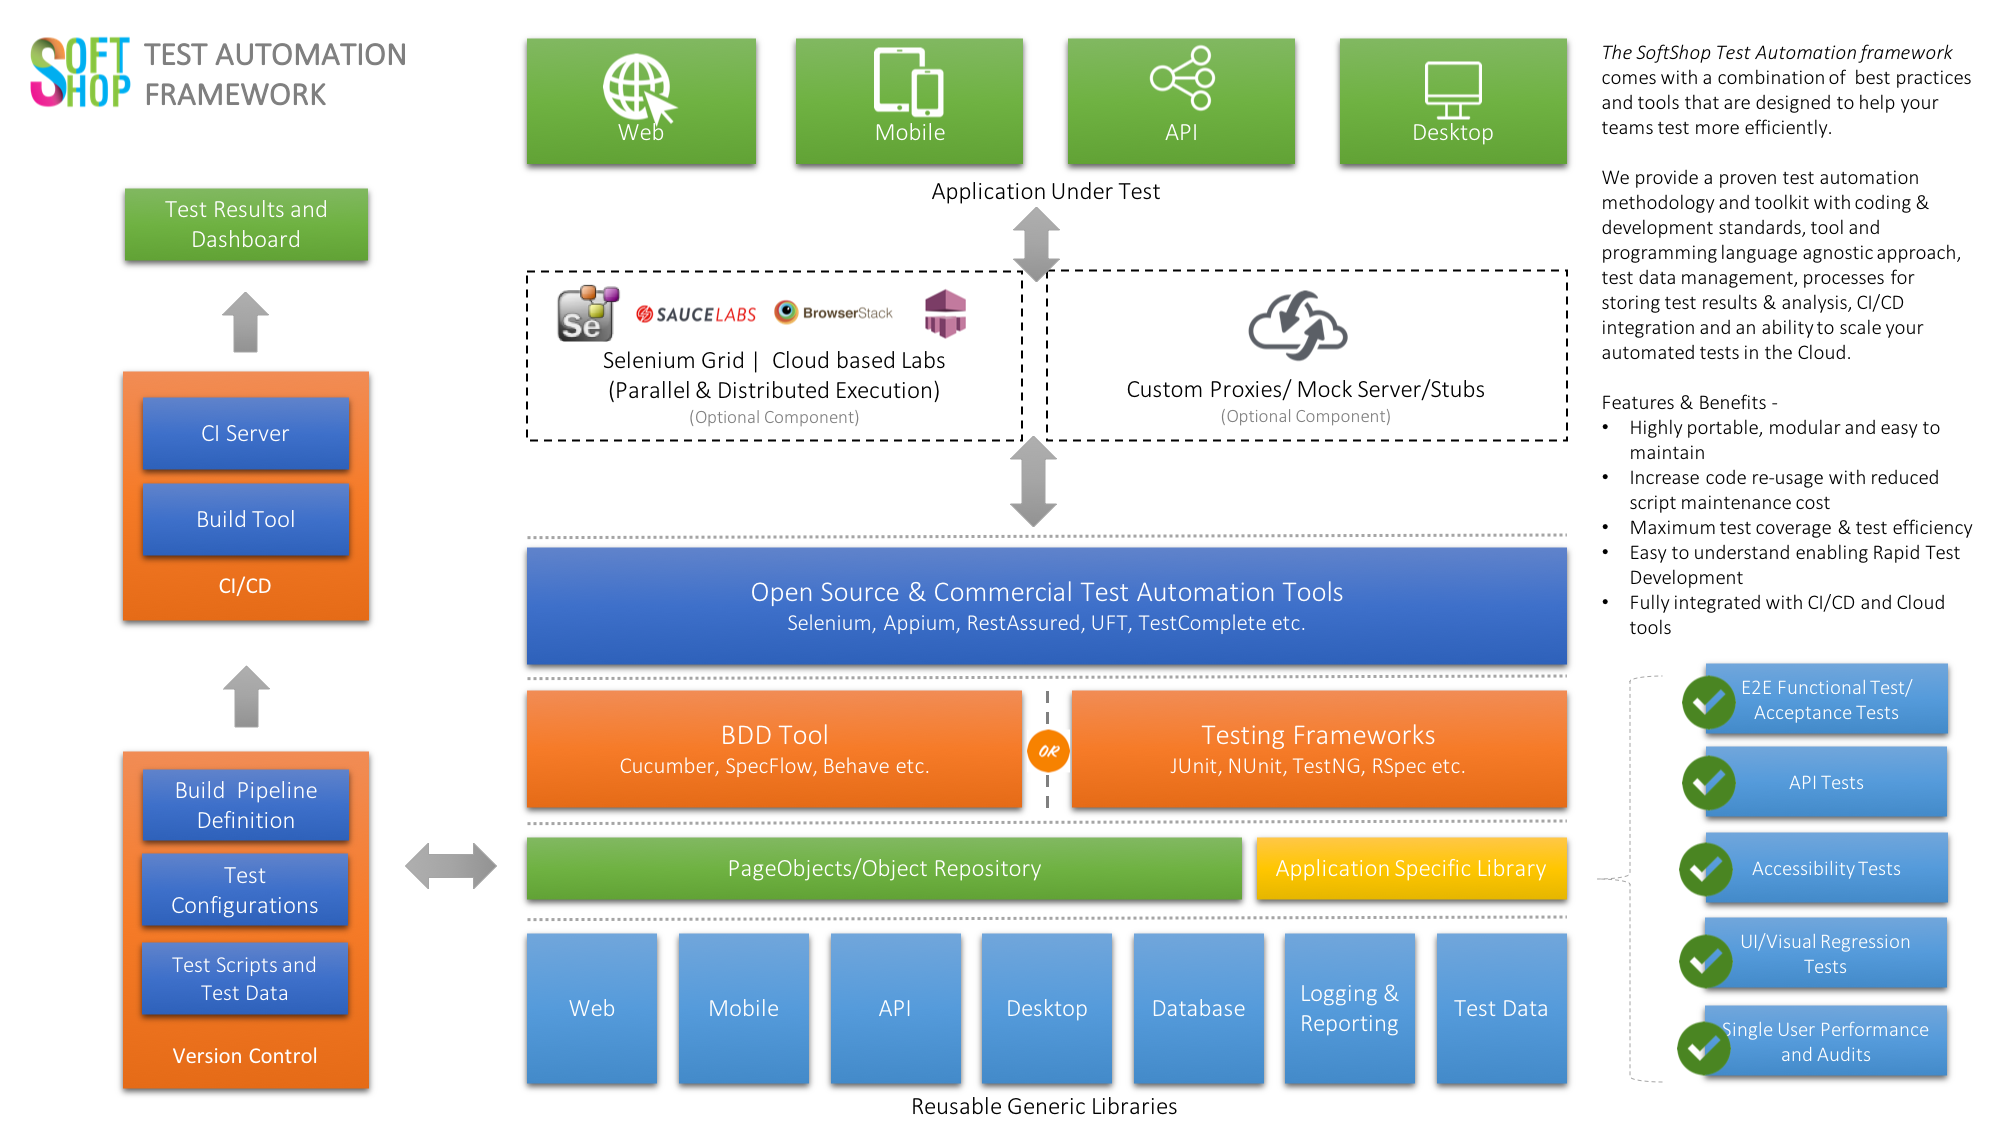
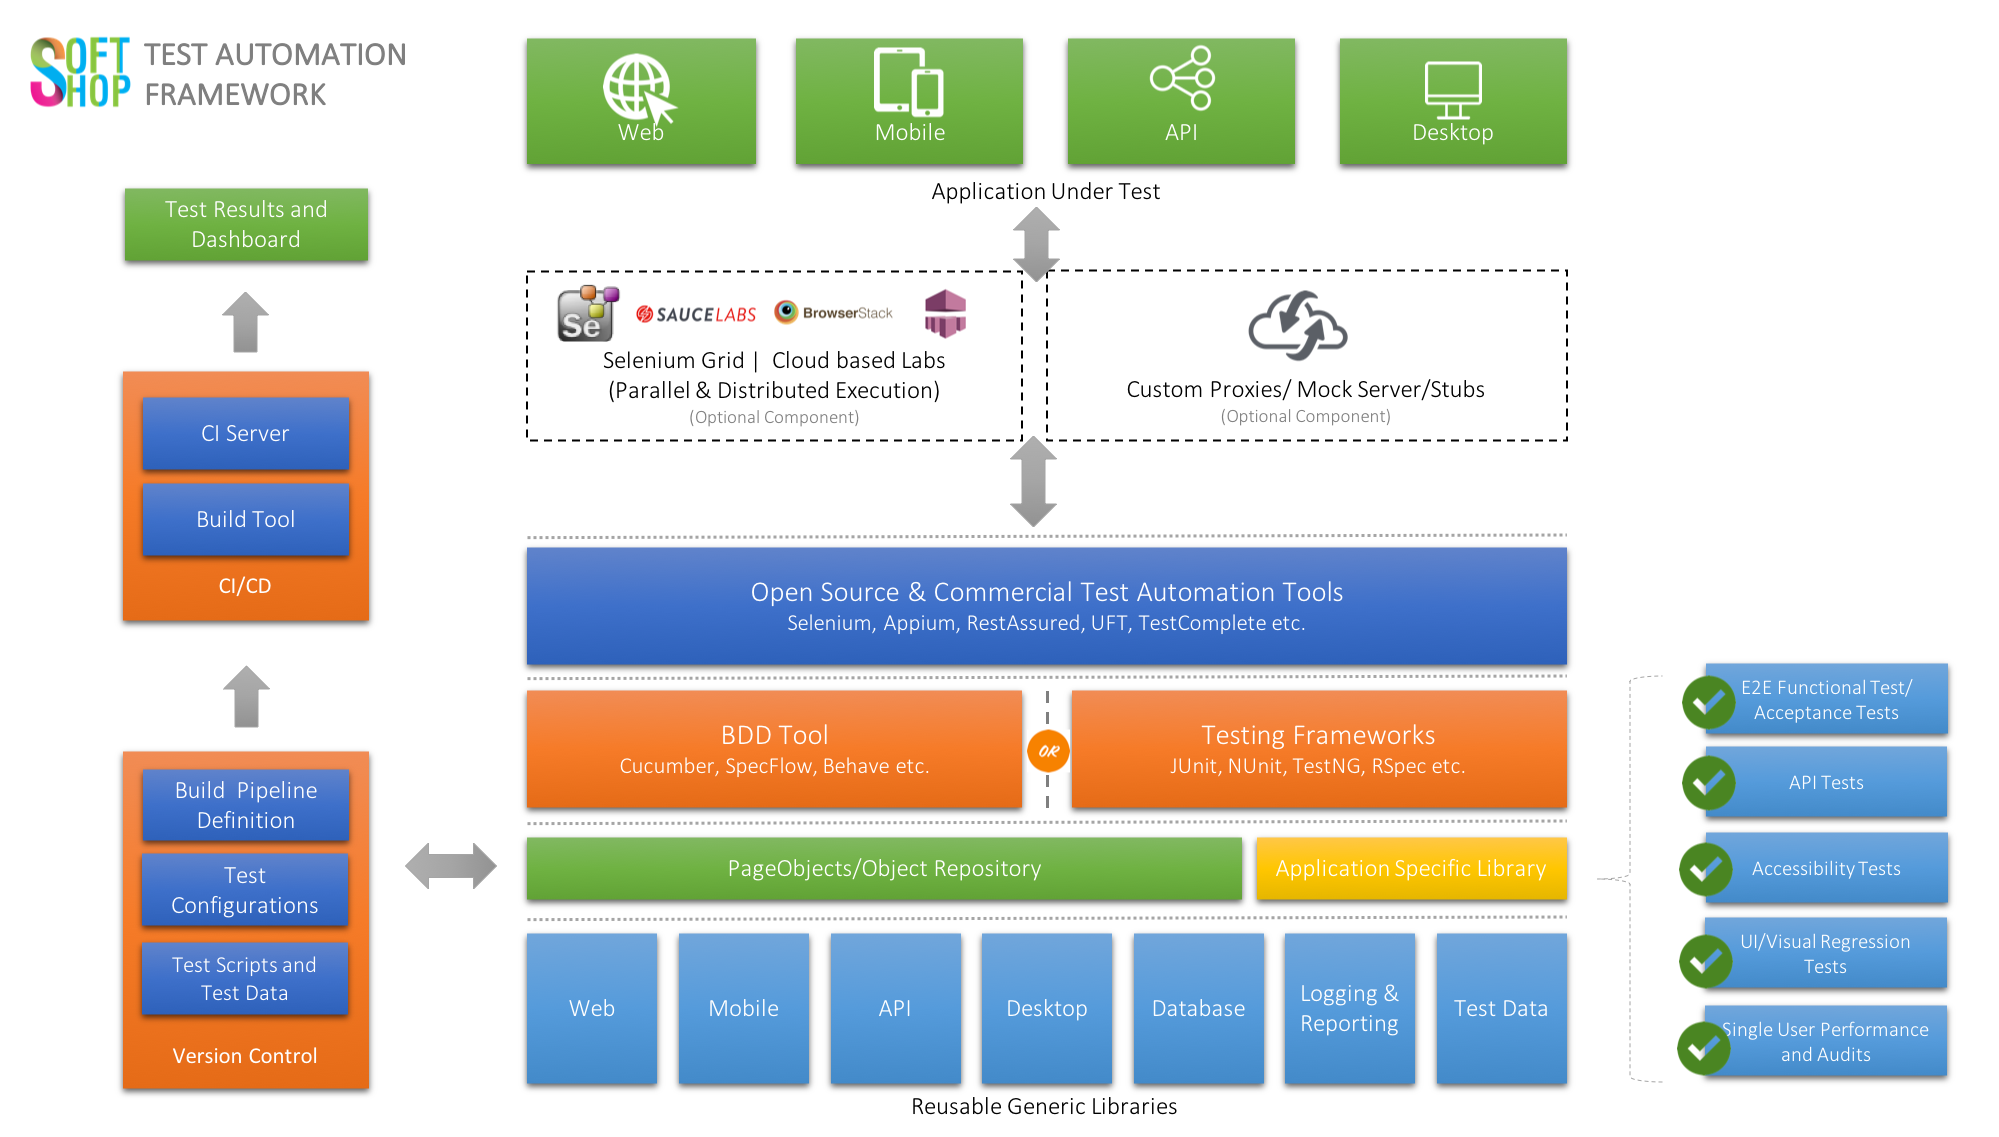
Fix

Changed region(s): [[0.8064, 0.1539, 0.9925, 0.5541], [0.8064, 0.0308, 0.9925, 0.1231]]

diff --git a/src/testautomation.html b/src/testautomation.html
@@ -70,6 +70,16 @@
         <div class="row">
             <div class="col-md-12 col-lg-12">
                 <legend class="text-left">Softshop Test Automation Framework</legend>
+                <p>The SoftShop Test Automation framework comes with a combination of  best practices and tools that are designed to help your teams test more efficiently.
+                    We provide a proven test automation methodology and toolkit with coding & development standards, tool and programming language agnostic approach, test data management, processes for storing test results & analysis, CI/CD integration and an ability to scale your automated tests in the Cloud.</p>
+                   <p>Features and Benefits - </p>
+                    <ul>
+                        <li>Highly portable, modular and easy to maintain</li>
+                        <li>Increase code re-usage with reduced script maintenance cost</li>
+                        <li>Maximum test coverage and test efficiency</li>
+                        <li>Easy to understand enabling Rapid Test Development</li>
+                        <li>Fully integrated with CI/CD and Cloud tools</li>
+                    </ul>
                 <center><img src="image/framework.png" width="80%" height="60%" alt="Softshop Test Automation Framework"/></center>
             </div>
         </div>
